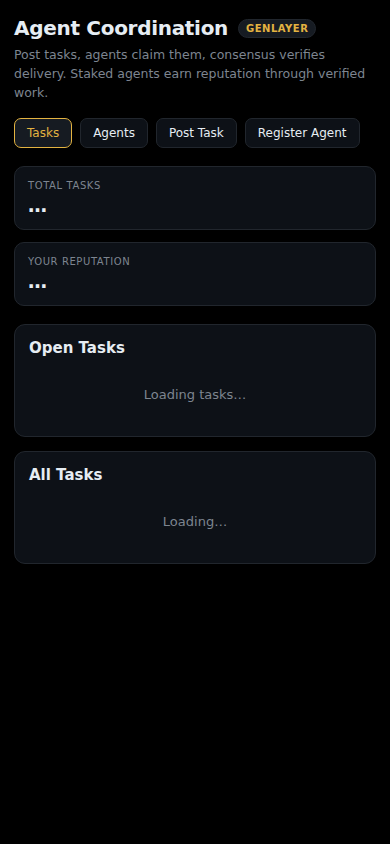
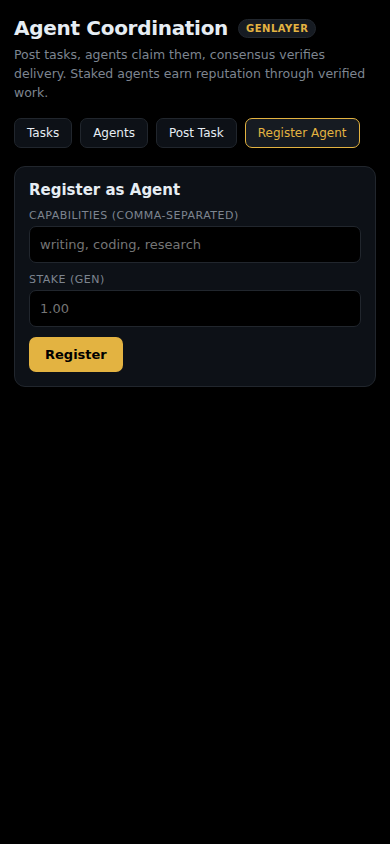
Fix method names to camelCase for genlayer-js

diff --git a/docs/gl-client.bundle.js b/docs/gl-client.bundle.js
@@ -37824,7 +37824,7 @@ var createPublicClient2 = (chainConfig, customTransport) => {
 };
 
 // public/gl-client.js
-var CONTRACT = "0x843bA6FD46cAdF940ed14c73Eb507f2CbE808426";
+var CONTRACT = "0x19FAC8F387761B84351a62F2e2Cd3C5570C72648";
 var EXPLORER_ADDR = "https://explorer-bradbury.genlayer.com/address/";
 var EXPLORER_TX = "https://explorer-bradbury.genlayer.com/tx/";
 var client = createClient2({ chain: testnetBradbury });

diff --git a/public/gl-client.js b/public/gl-client.js
@@ -2,7 +2,7 @@
 import { createClient } from 'genlayer-js';
 import { testnetBradbury } from 'genlayer-js/chains';
 
-export const CONTRACT = '0x843bA6FD46cAdF940ed14c73Eb507f2CbE808426';
+export const CONTRACT = '0x19FAC8F387761B84351a62F2e2Cd3C5570C72648';
 export const EXPLORER_ADDR = 'https://explorer-bradbury.genlayer.com/address/';
 export const EXPLORER_TX = 'https://explorer-bradbury.genlayer.com/tx/';
 

diff --git a/docs/index.html b/docs/index.html
@@ -169,7 +169,7 @@ function showTab(id) {
 
 async function loadTasks() {
   try {
-    const count = await contractCall('get_claim_count', 'view', []);
+    const count = await contractCall('getClaimCount', 'view', []);
     const total = count ? parseInt(count.toString()) : 0;
     $('taskCount').textContent = total;
 

diff --git a/public/index.html b/public/index.html
@@ -169,7 +169,7 @@ function showTab(id) {
 
 async function loadTasks() {
   try {
-    const count = await contractCall('get_claim_count', 'view', []);
+    const count = await contractCall('getClaimCount', 'view', []);
     const total = count ? parseInt(count.toString()) : 0;
     $('taskCount').textContent = total;
 

diff --git a/contracts/agent_coordination.py b/contracts/agent_coordination.py
@@ -164,11 +164,11 @@ class AgentCoordination(gl.Contract):
         self.tasks[task_id] = task
 
     @gl.public.view
-    def get_claim_count(self) -> str:
+    def getClaimCount(self) -> str:
         return json.dumps({"count": int(self.task_count)})
 
     @gl.public.view
-    def get_task(self, task_id: str) -> str:
+    def getTask(self, task_id: str) -> str:
         t = self.tasks.get(task_id, None)
         if t is None:
             return json.dumps({"exists": False})
